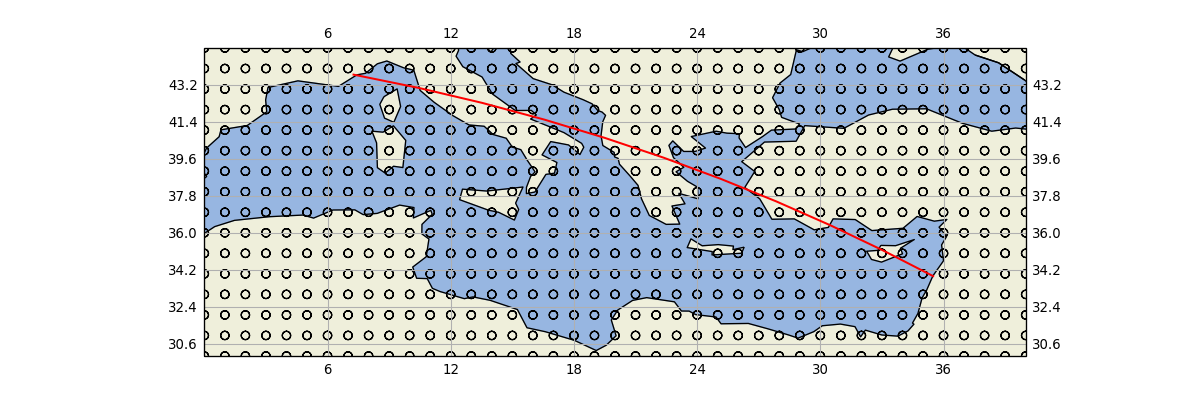
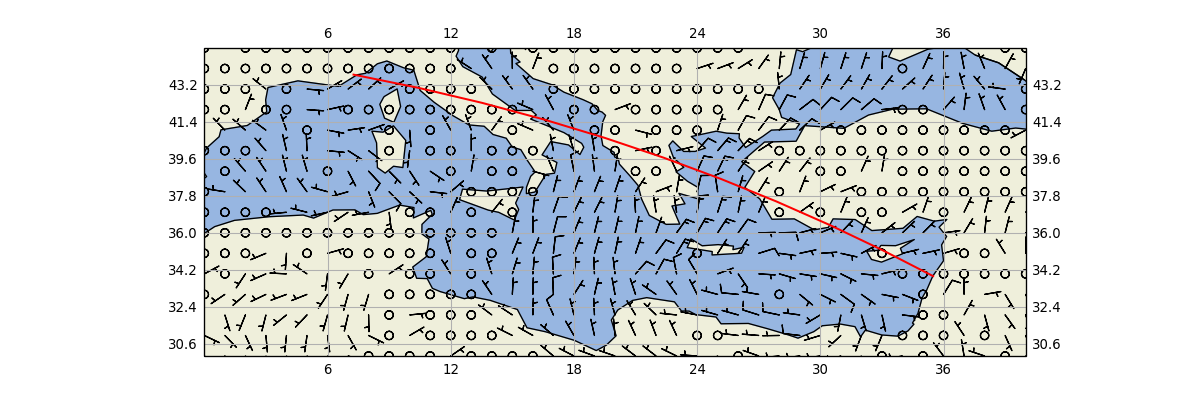
download of latest gfs, configurable map

diff --git a/templates/layouts/main.html b/templates/layouts/main.html
@@ -56,8 +56,8 @@
             <li class="dropdown">
               <a class="dropdown-toggle" data-toggle="dropdown">Dropdown <b class="caret"></b></a>
               <ul class="dropdown-menu">
-                <li><a>Action</a></li>
-                <li><a>Another action</a></li>
+                <li><a href="/map">Reference Map</a></li>
+                <li><a href="/map?latest=true">Latest Map</a></li>
                 <li><a>Something else here</a></li>
                 <li class="divider"></li>
                 <li class="dropdown-header">Nav header</li>

diff --git a/templates/pages/placeholder.home.html b/templates/pages/placeholder.home.html
@@ -3,7 +3,7 @@
 {% block content %}
 
 <div class="page-header">
-  <img src="/map.png" alt="map">
+  <img src="/map" alt="map">
 </div>
 
 {% endblock %}

diff --git a/windrouter/gfs.py b/windrouter/gfs.py
@@ -1,0 +1,86 @@
+import os
+
+from lxml import etree
+
+import requests
+
+
+def get_latest_gfs_date_hour(model='1p00'):
+    """
+    Find the latest current gfs and forecasts
+    and download the file
+    """
+
+    # latest date
+    url = 'https://nomads.ncep.noaa.gov/cgi-bin/filter_gfs_{}.pl'.format(model)
+    html = etree.HTML(requests.get(url).content)
+    dates = html.xpath('//tr//td/a/text()')
+    latest_date = dates[0]
+
+    # latest hour
+    url = url + '?dir=%2F{}'.format(latest_date)
+    html = etree.HTML(requests.get(url).content)
+    hours = html.xpath('//tr//td/a/text()')
+    latest_hour = hours[0]
+
+    # check if latest exists and if not - roll back by 6hrs
+    url = url + '%2F{}'.format(latest_hour)
+    html = etree.HTML(requests.get(url).content)
+    e = html.xpath('.//font[contains(text(),"No files or directories found")]')
+    if len(e) != 0:
+        if latest_hour == '00':
+            latest_date = 'gfs.{}'.format(str(int(latest_date[4:]) - 1))
+            latest_hour = '18'
+        else:
+            latest_hour = '{:02d}'.format(int(latest_hour) - 6)
+
+    # trim gfs
+    latest_date = latest_date[4:]
+
+    return latest_date, latest_hour
+
+
+def download_gfs_for_date_hour(date, hour, fcst, model='1p00'):
+    """
+    Download GFS grib files with forecast for specific date and hour.
+    https://nomads.ncep.noaa.gov/cgi-bin/filter_gfs_0p25_1hr.pl?file=gfs.t18z.pgrb2.0p25.anl&lev_0.995_sigma_level=on&var_UGRD=on&var_VGRD=on&leftlon=0&rightlon=360&toplat=90&bottomlat=-90&dir=%2Fgfs.20201109%2F18
+    https://nomads.ncep.noaa.gov/cgi-bin/filter_gfs_0p25_1hr.pl?file=gfs.t18z.pgrb2.0p25.f000&lev_0.995_sigma_level=on&var_UGRD=on&var_VGRD=on&leftlon=0&rightlon=360&toplat=90&bottomlat=-90&dir=%2Fgfs.20201109%2F18
+    """
+
+    url = 'https://nomads.ncep.noaa.gov/cgi-bin/filter_gfs_{}.pl'.format(model)
+    fileurl = '?file=gfs.t{}z.pgrb2.{}.f{:03d}'.format(hour, model, fcst)
+    filter = '&lev_0.995_sigma_level=on&var_UGRD=on&var_VGRD=on&leftlon=0&' +\
+             'rightlon=360&toplat=90&bottomlat=-90'
+    dir = '&dir=%2Fgfs.{}%2F{}'.format(date, hour)
+    url = url + fileurl + filter + dir
+    print(url)
+
+    folder = '{}{}'.format(date, hour)
+    filename = folder + 'f{:03d}'.format(fcst)
+
+    # create folder
+    try:
+        os.mkdir(os.path.join("data", folder))
+    except:
+        pass
+
+    # write file
+    try:
+        r = requests.get(url)
+        path = os.path.join("data", folder, filename)
+
+        with open(path, 'wb') as f:
+            f.write(r.content)
+    except:
+        pass
+    return path
+
+
+def download_latest_gfs(fcst):
+    date, hour = get_latest_gfs_date_hour()
+    path = download_gfs_for_date_hour(date, hour, fcst)
+    return path
+
+
+if __name__ == '__main__':
+    download_latest_gfs(3)

diff --git a/app.py b/app.py
@@ -8,7 +8,9 @@ from flask import Flask, Response, render_template, request
 
 from matplotlib.backends.backend_agg import FigureCanvasAgg as FigureCanvas
 
+from windrouter.gfs import download_latest_gfs
 from windrouter.map import add_barbs, add_route, create_map
+
 
 # App Config.
 app = Flask(__name__)
@@ -21,8 +23,8 @@ def home():
     return render_template('pages/placeholder.home.html')
 
 
-@app.route('/map.png')
-def plot_png():
+@app.route('/map')
+def plot_map():
     try:
         lat1 = request.args['lat1']
         lon1 = request.args['lon1']
@@ -40,13 +42,23 @@ def plot_png():
         lon2 = float(lon2)
     except (ValueError):
         logging.log(logging.ERROR, 'expecting real values')
-
     # generate map
     fig = create_map(lat1, lon1, lat2, lon2, dpi)
-    filepath = app.config['DEFAULT_GFS_FILE']
-    fig = add_barbs(fig, filepath, lat1, lon1, lat2, lon2)
 
-    # get route coordinates
+    # plot weather
+    try:
+        latest = request.args['latest']
+    except KeyError:
+        latest = False
+
+    if latest:
+        weather_file = download_latest_gfs(0)
+    else:
+        weather_file = app.config['DEFAULT_GFS_FILE']
+
+    fig = add_barbs(fig, weather_file, lat1, lon1, lat2, lon2)
+
+    # plot route
     r_la1, r_lo1, r_la2, r_lo2 = app.config['DEFAULT_ROUTE']
     fig = add_route(fig, r_la1, r_lo1, r_la2, r_lo2)
 

diff --git a/windrouter/grib.py b/windrouter/grib.py
@@ -1,38 +1,8 @@
-import os
-
 import numpy as np
 
 import pygrib as pg
 
-import requests
-
 from scipy.interpolate import RegularGridInterpolator
-
-
-def download_gfs_forecast(date, hour, fcst, resolution="1p00"):
-    """Download GFS grib files with forecast."""
-
-    filename = "gfs.t{}z.pgrb2.{}.f{}".format(hour, resolution, fcst)
-    folder = "{}{}".format(date, hour)
-    url = "https://www.ftp.ncep.noaa.gov/data/nccf/com/gfs/prod/gfs.{}/{}/".\
-        format(date, hour) + filename
-
-    # create folder
-    try:
-        os.mkdir(os.path.join("data", folder))
-    except:
-        pass
-
-    # download file
-    try:
-        r = requests.get(url)
-        path = os.path.join("data", folder, filename)
-
-        with open(path, 'wb') as f:
-            f.write(r.content)
-    except:
-        pass
-    return path
 
 
 def mps_to_knots(vals):

diff --git a/tests/test_grib.py b/tests/test_grib.py
@@ -26,17 +26,6 @@ class TestGribMethods(unittest.TestCase):
                 outputs)
         )
 
-    def test_gfs_download(self):
-        date = "20201107"
-        hour = "06"
-        resolution = "1p00"
-        forecast = "003"
-
-        self.assertEqual(grib.download_gfs_forecast(
-            date, hour, forecast, resolution),
-            "https://www.ftp.ncep.noaa.gov/data/nccf/com/gfs/prod/" +
-            "gfs.20201105/06/gfs.t06z.pgrb2b.1p00.f003")
-
     # def test_grib_vectors(self):
     #     u, v, lats, lons = utils.grib_to_wind_vectors(
     #         'data/2019122212/2019122212f000',

diff --git a/config.py b/config.py
@@ -18,8 +18,8 @@ DEFAULT_MAP = [30, 0, 45, 40]
 DEFAULT_ROUTE = [43.70313, 7.26608, 33.888630, 35.495480]
 
 # Default GFS file
-DEFAULT_GFS_DATE = "20201107"
-DEFAULT_GFS_HOUR = "06"
-DEFAULT_GFS_FCST = "000"
-DEFAULT_GFS_RESOLUTION = "1p00"
-DEFAULT_GFS_FILE = "data/2020110706/gfs.t06z.pgrb2.1p00.f003"
+DEFAULT_GFS_DATE = '20201107'
+DEFAULT_GFS_HOUR = '06'
+DEFAULT_GFS_FCST = '000'
+DEFAULT_GFS_RESOLUTION = '1p00'
+DEFAULT_GFS_FILE = 'data/2019122212/2019122212f000'

diff --git a/tests/test_gfs.py b/tests/test_gfs.py
@@ -1,0 +1,17 @@
+import unittest
+
+import numpy as np
+
+from windrouter import gfs
+
+
+class TestGfsMethods(unittest.TestCase):
+
+    def test_get_latest_gfs_date_hour(self):
+        date, hour = gfs.get_latest_gfs_date_hour()
+        self.assertEqual(len(date), 8)
+        self.assertEqual(len(hour), 2)
+
+
+if __name__ == '__main__':
+    unittest.main()

diff --git a/README.md b/README.md
@@ -26,3 +26,4 @@ Vectorized wind routing for sail boats using [geovectorslib](https://github.com/
 - [Henry H.T. Chen's PhD Thesis](http://resolver.tudelft.nl/uuid:a6112879-4298-40a6-91c7-d9a431a674c7)
 - Modeling and Optimization Algorithms in Ship Weather Routing, DOI: 10.1016/j.enavi.2016.06.004
 - Optimal Ship Weather Routing Using Isochrone Method on the Basis of Weather Changes, DOI: 10.1061/40932(246)435 
+- [GFS grib2 filter](https://nomads.ncep.noaa.gov/)
